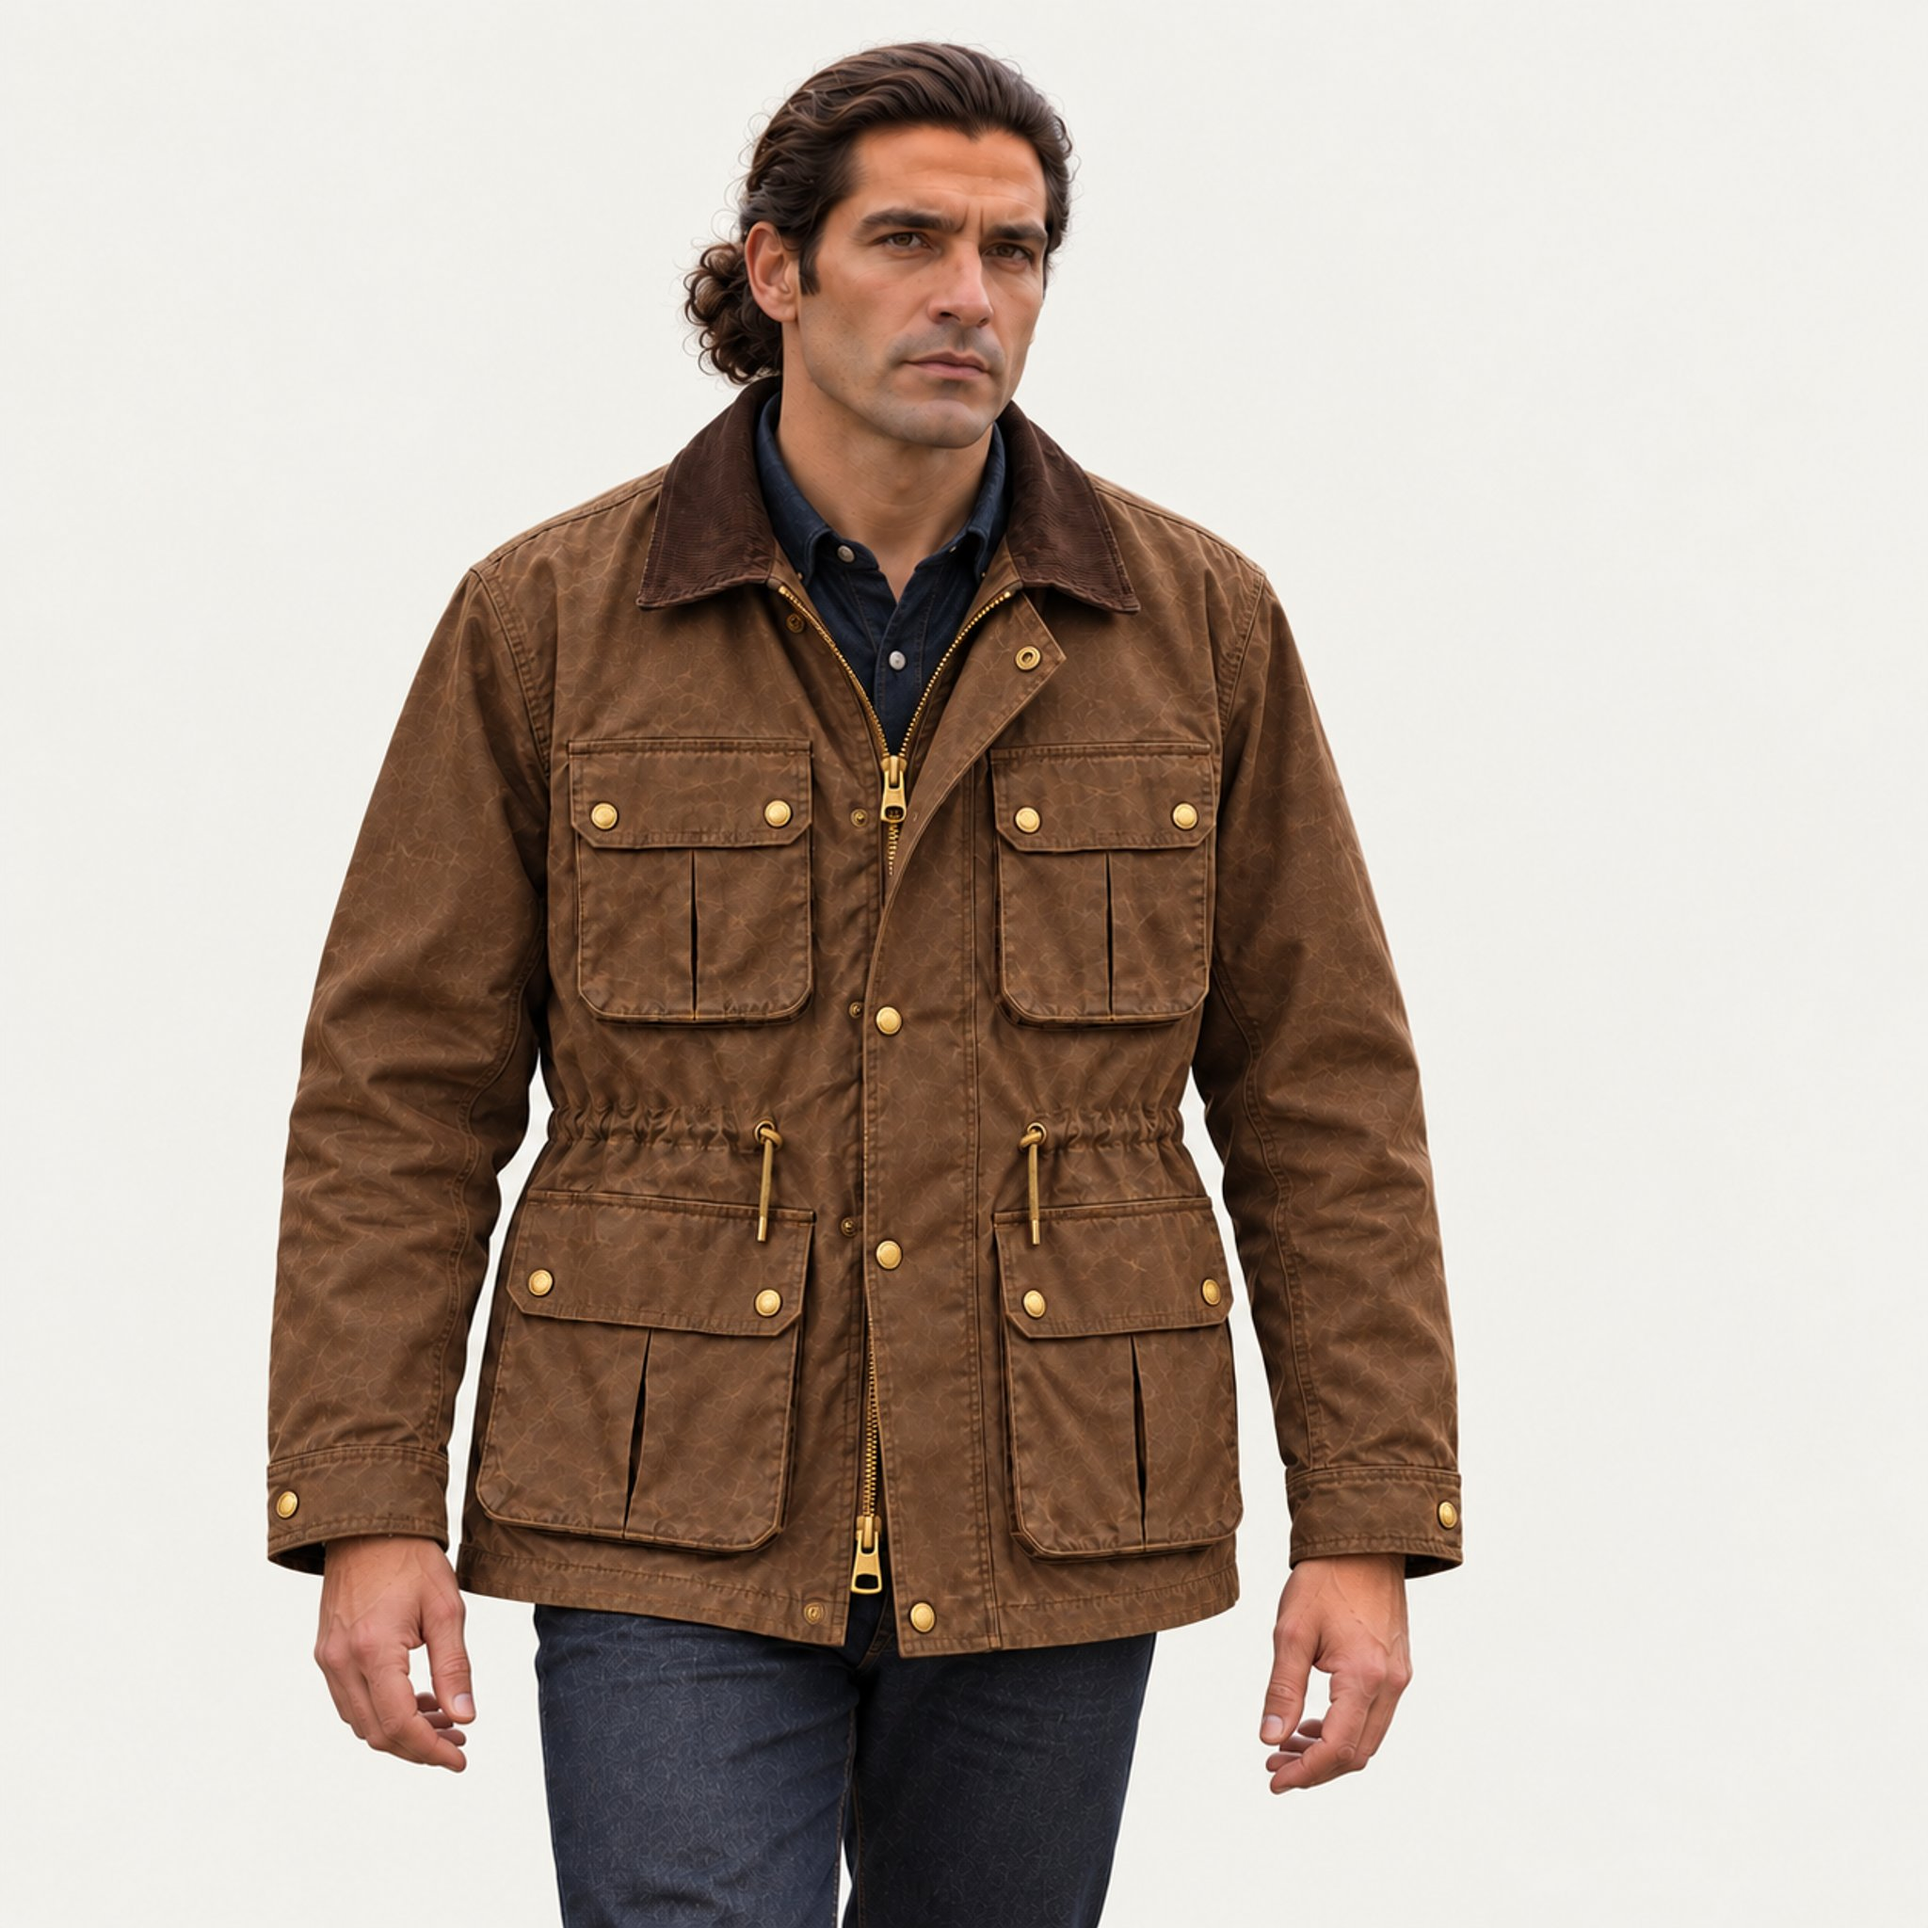
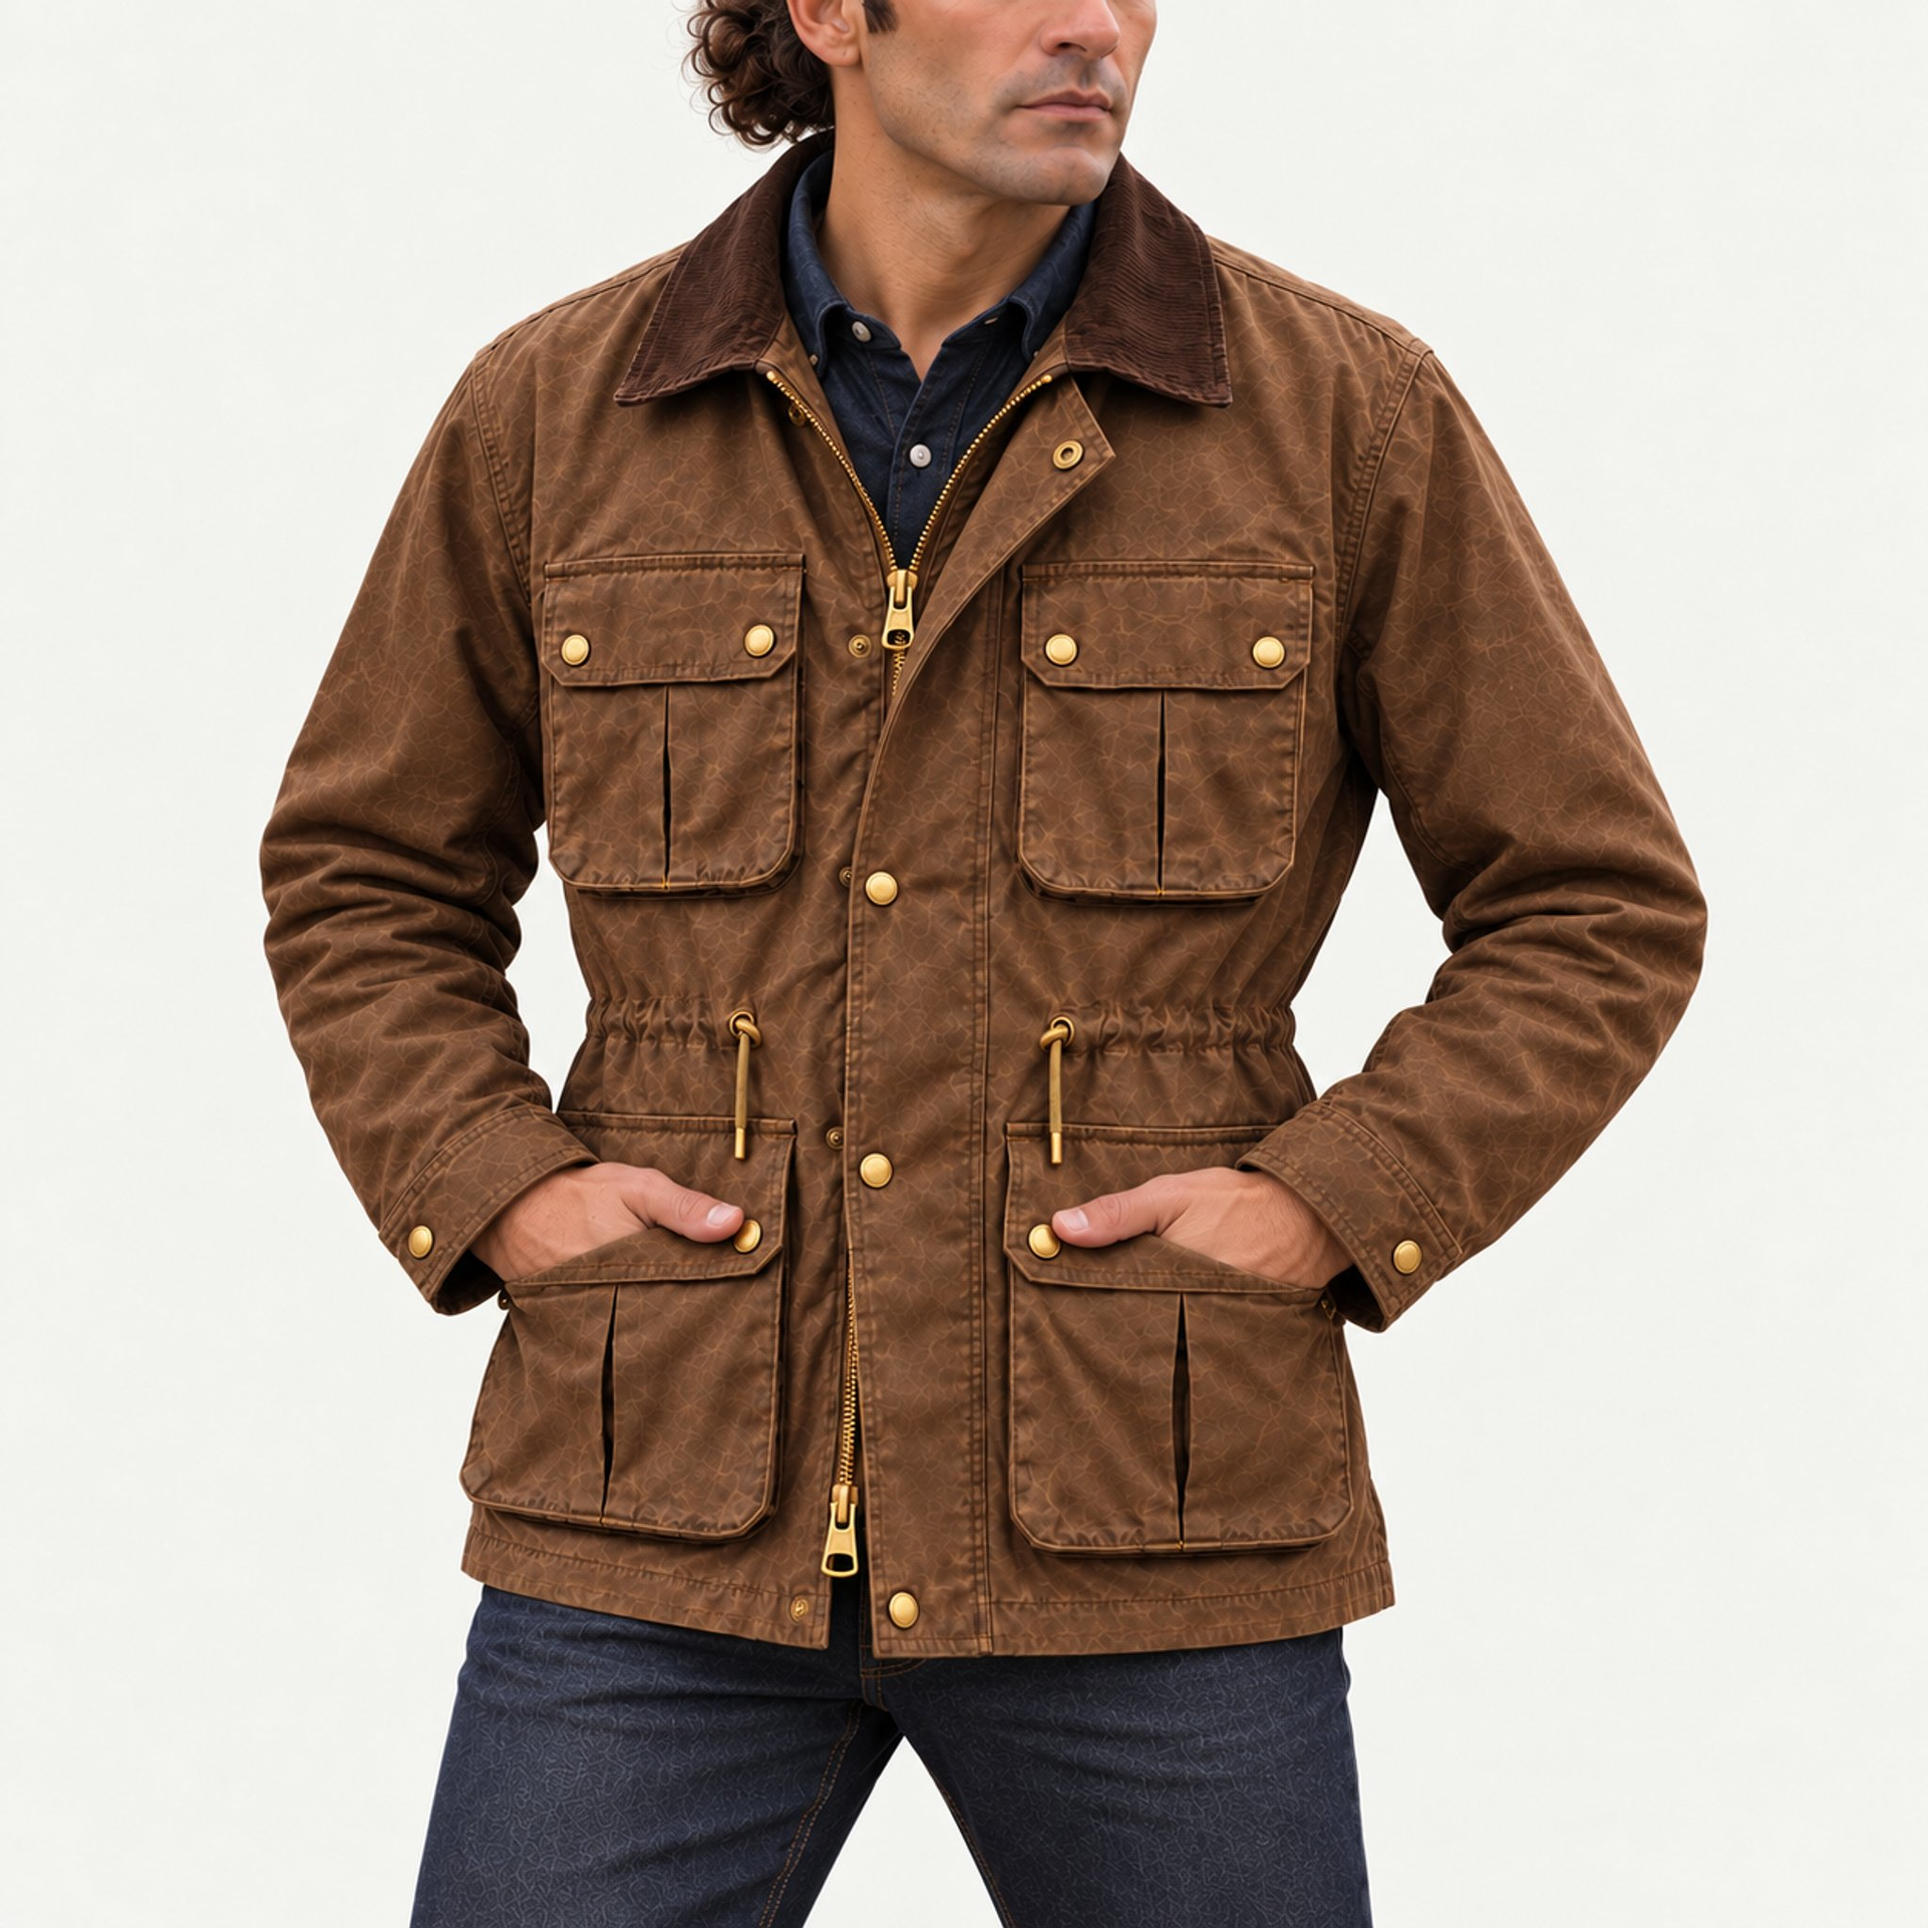
Give Model B distinct poses across catalog fronts

diff --git a/docs/images/model-b-pose-qa.md b/docs/images/model-b-pose-qa.md
@@ -1,0 +1,48 @@
+# Model B: front pose revisions
+
+The owner's review requested a distinct stationary standing pose for every
+catalog front shot of the established Spanish model. Six approved front
+photographs were edited with the built-in imagegen tool and replaced at
+their existing catalog filenames. No obsolete copies remain in `public/images/`.
+
+| Front image key | Pose |
+|---|---|
+| `pieces/014-chore-jacket/ecru-front` | Torso angled, one hand in a trouser pocket, opposite arm down |
+| `pieces/027-field-jacket/tobacco-front` | Both hands in lower jacket pockets, elbows bent outward |
+| `pieces/046-work-coat/slate-front` | Hands behind the back, shoulders open |
+| `pieces/046-work-coat/moss-front` | One hand on the hip, elbow outward, opposite arm down |
+| `pieces/068-mill-overshirt/grey-check-front` | One hand adjusting the opposite sleeve cuff at waist level |
+| `pieces/073-leather-work-jacket/saddle-front` | One hand touching the collar, opposite hand in a trouser pocket |
+
+Each edit references the approved earlier photograph at the same key to
+preserve identity, clothing, underlayers, hardware, stone backdrop and grade.
+Model B remains clean-shaven with long dark-brown hair tied at the nape.
+The owner requested front-image changes; back and detail views retain their
+existing poses, model and garments from the same studio direction.
+
+The [six-image contact sheet](model-b-pose-contact.jpg) shows the final poses.
+[Delivery-resolution spot checks](model-b-pose-spot.jpg) show hands, cuffs,
+hardware and pocket edges in 512-pixel crops without resizing. Both sheets
+were reviewed: the arm placements are distinct, the main garment features
+remain readable, and no visible extra fingers or floating hardware were
+found in the inspected regions. The Moss pose partly covers its lower pocket,
+as expected when the hand rests on the hip; the other gallery views show it.
+
+The [exact prompts](model-b-pose-prompts.json) record source and delivery
+dimensions for all six replacements. These are the latest production records
+for these keys, superseding the corresponding batch 2 and batch 4a front
+prompts. JPEG output is sRGB at quality 85 and 2048 × 2048. Smaller native
+sources were resampled for delivery; resampling adds no native detail.
+
+Validation:
+
+- Regenerated `lib/images/manifest.json`: 107 JPEGs, including updated blur
+  placeholders for all six replaced fronts.
+- All six files validated as 2048 × 2048 sRGB JPEGs with matching manifest
+  dimensions and JPEG blur metadata.
+- `bun test`: 52 passed, zero failed; no missing Outerwear gallery keys.
+- Refreshed all three batch 4a gallery contact sheets and their spot checks
+  so they show the current images.
+- No application source code changed. This revision did not rerun the build
+  or browser performance measurements; the initial batch's build diagnostic
+  and production-image checks are recorded in `batch-04a-qa.md`.

diff --git a/docs/images/batch-04a-qa.md b/docs/images/batch-04a-qa.md
@@ -3,7 +3,9 @@
 Issue #37 delivers 27 new on-body JPEGs under `public/images/pieces/`, using
 the exact catalog keys. Together with the existing still lifes and Field
 Jacket galleries, all seven Outerwear Pieces have four images in every
-Colourway: 48 images across 12 Colourways. No existing images were replaced.
+Colourway: 48 images across 12 Colourways. The initial batch added missing
+images. The owner's subsequent [pose review](model-b-pose-qa.md) replaces
+Model B's five batch 4a fronts and the earlier Tobacco Field Jacket front.
 
 ## Cast and shot list
 
@@ -59,8 +61,9 @@ The final contact sheets and spot checks include those revisions.
 
 Generated one photograph per built-in imagegen call. No specific generation
 model version is claimed because the tool does not expose a version selector.
-The [prompt records](batch-04a-prompts.json) contain the final generation
+The [prompt records](batch-04a-prompts.json) contain the initial generation
 prompts, reference keys, framing revision prompts and source dimensions.
+The latest Model B front prompts are in [the pose records](model-b-pose-prompts.json).
 
 Delivery is 2048 × 2048 sRGB JPEG at quality 85, with the grade baked in.
 Native outputs below the delivery size were resampled with Sharp; this meets

diff --git a/docs/images.md b/docs/images.md
@@ -35,6 +35,10 @@ the [delivery and QA notes](images/batch-04a-qa.md), which link the three
 contact sheets, delivery-resolution spot checks and exact prompt records.
 Every Outerwear Colourway now has its four catalog squares and blur metadata.
 
+After review, Model B's six catalog fronts received distinct standing poses,
+including the Tobacco Field Jacket front from batch 2. The replacements use
+the same keys; see the [pose review and prompt records](images/model-b-pose-qa.md).
+
 Drop source JPEGs into `public/images/`. A key is the path without `.jpg`:
 `pieces/027-field-jacket/olive-still` resolves to
 `public/images/pieces/027-field-jacket/olive-still.jpg`. Use lowercase kebab-case
